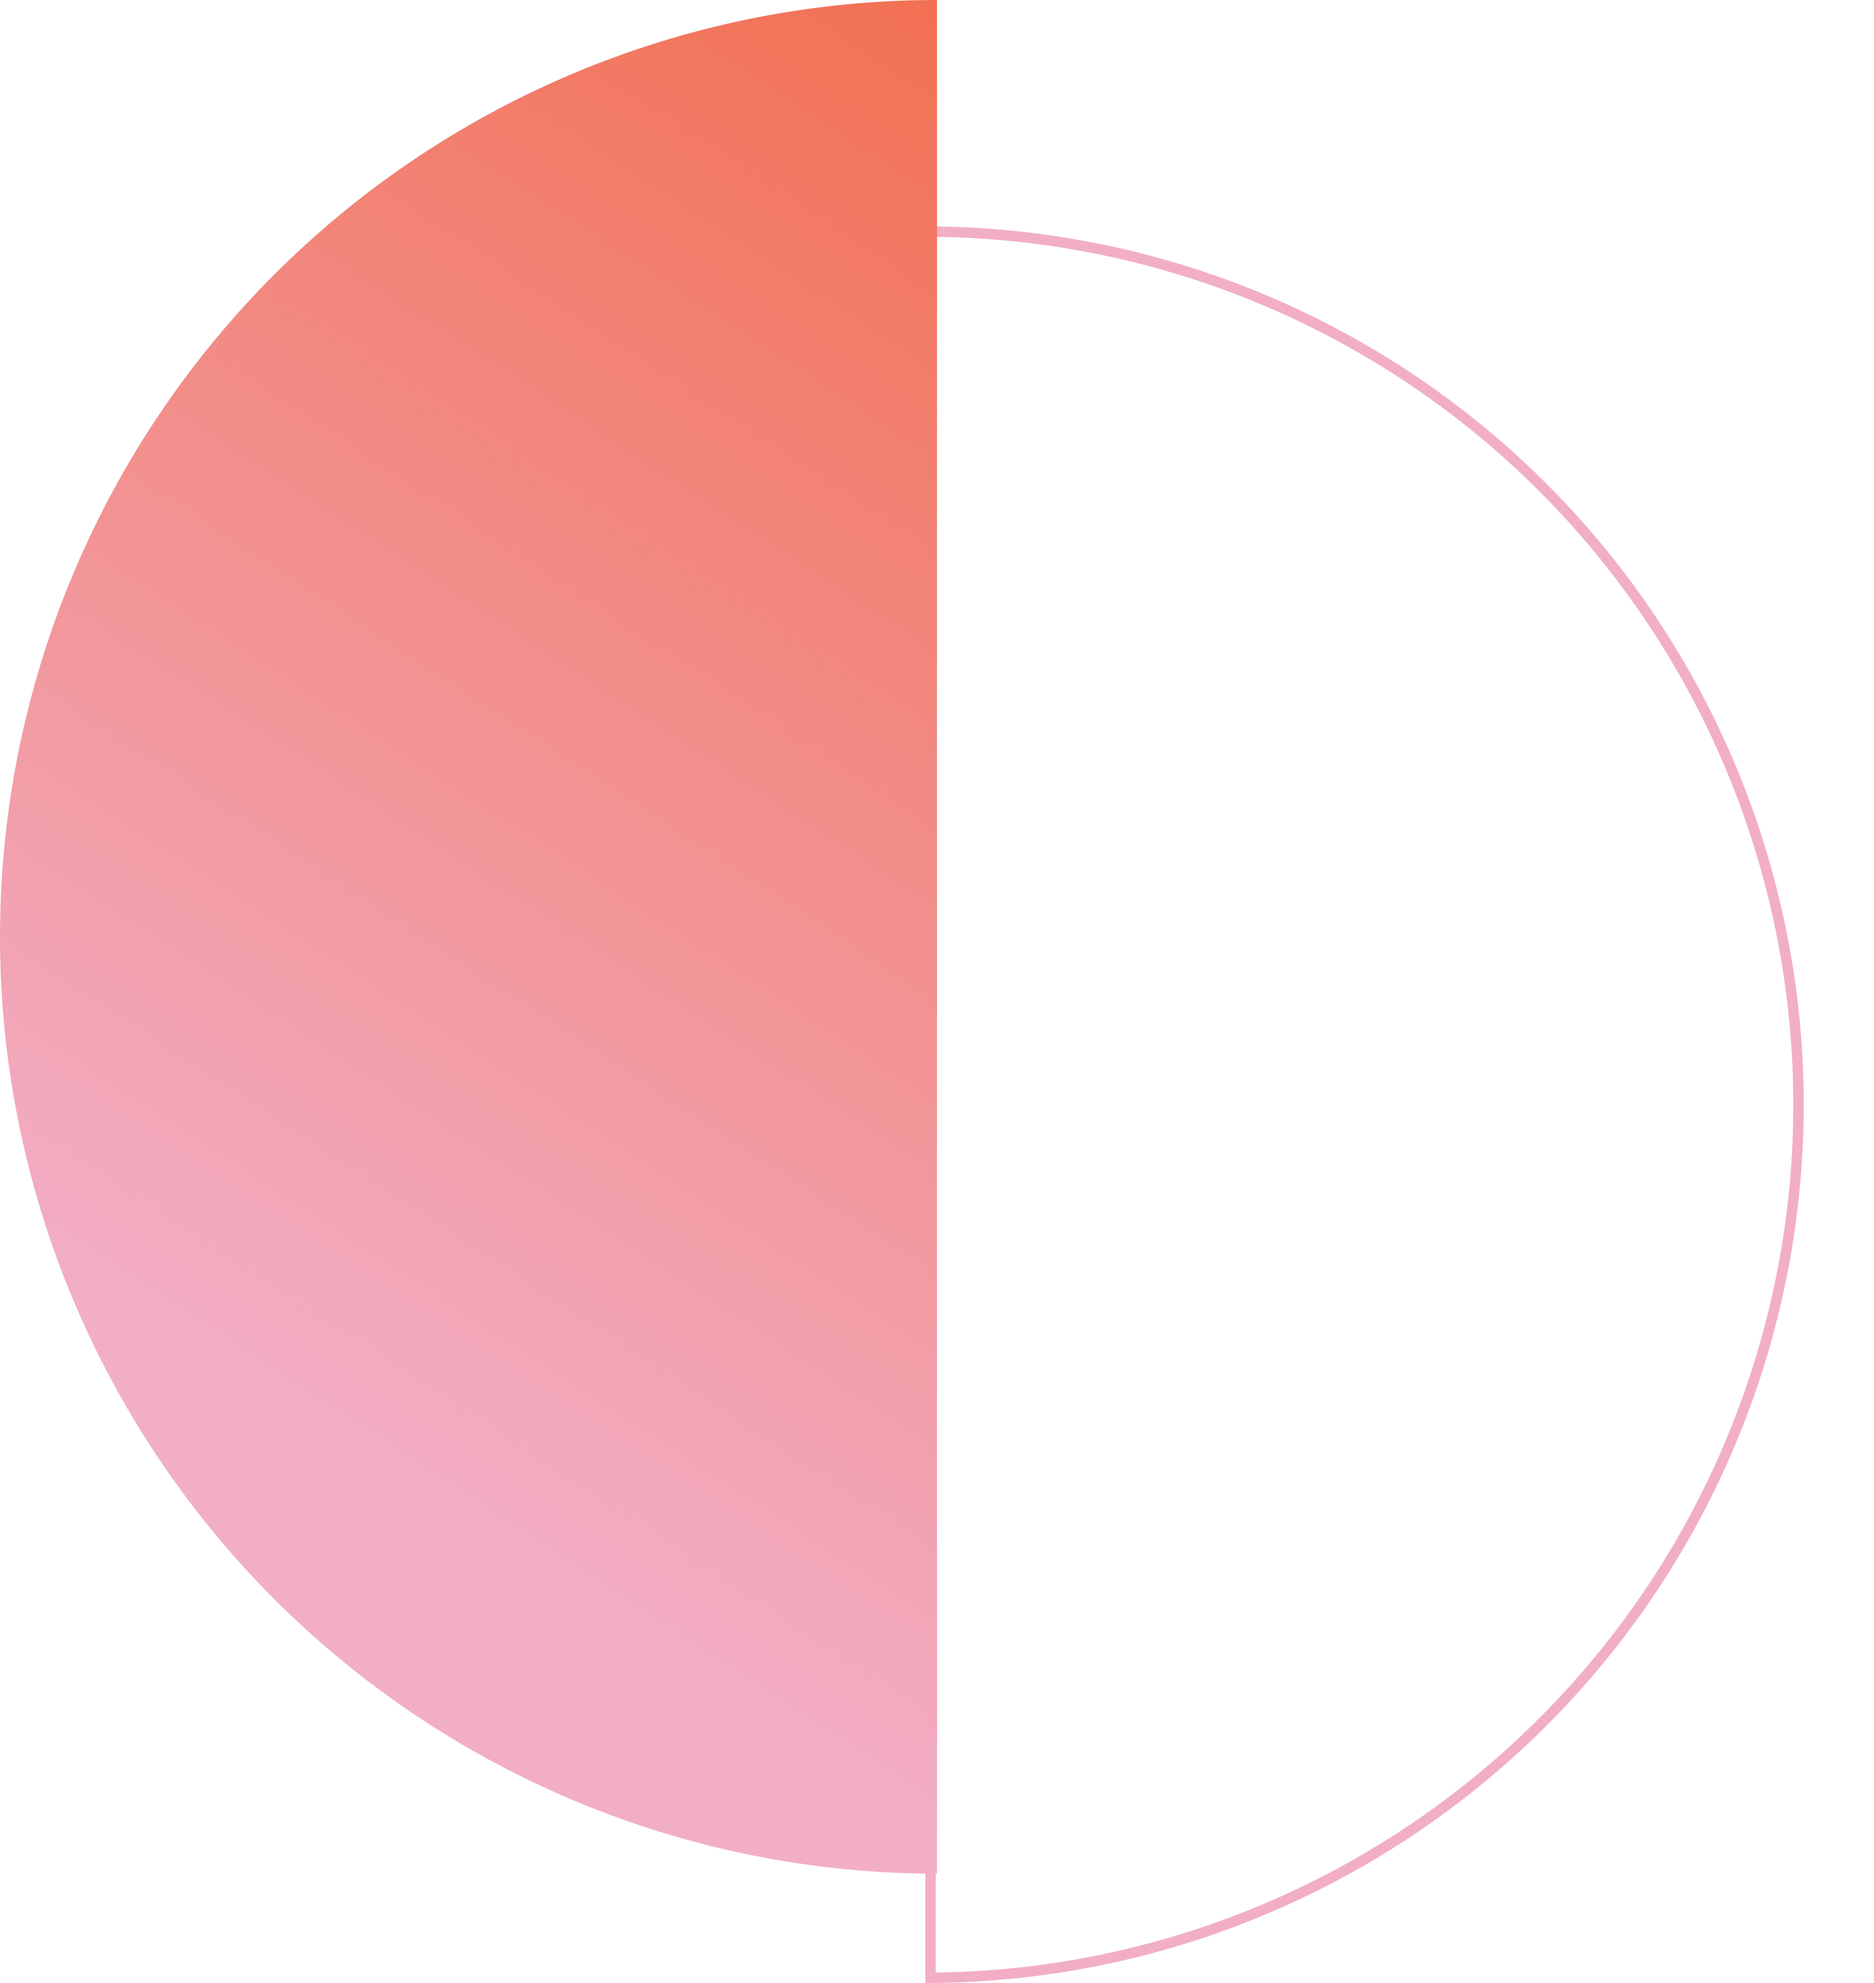
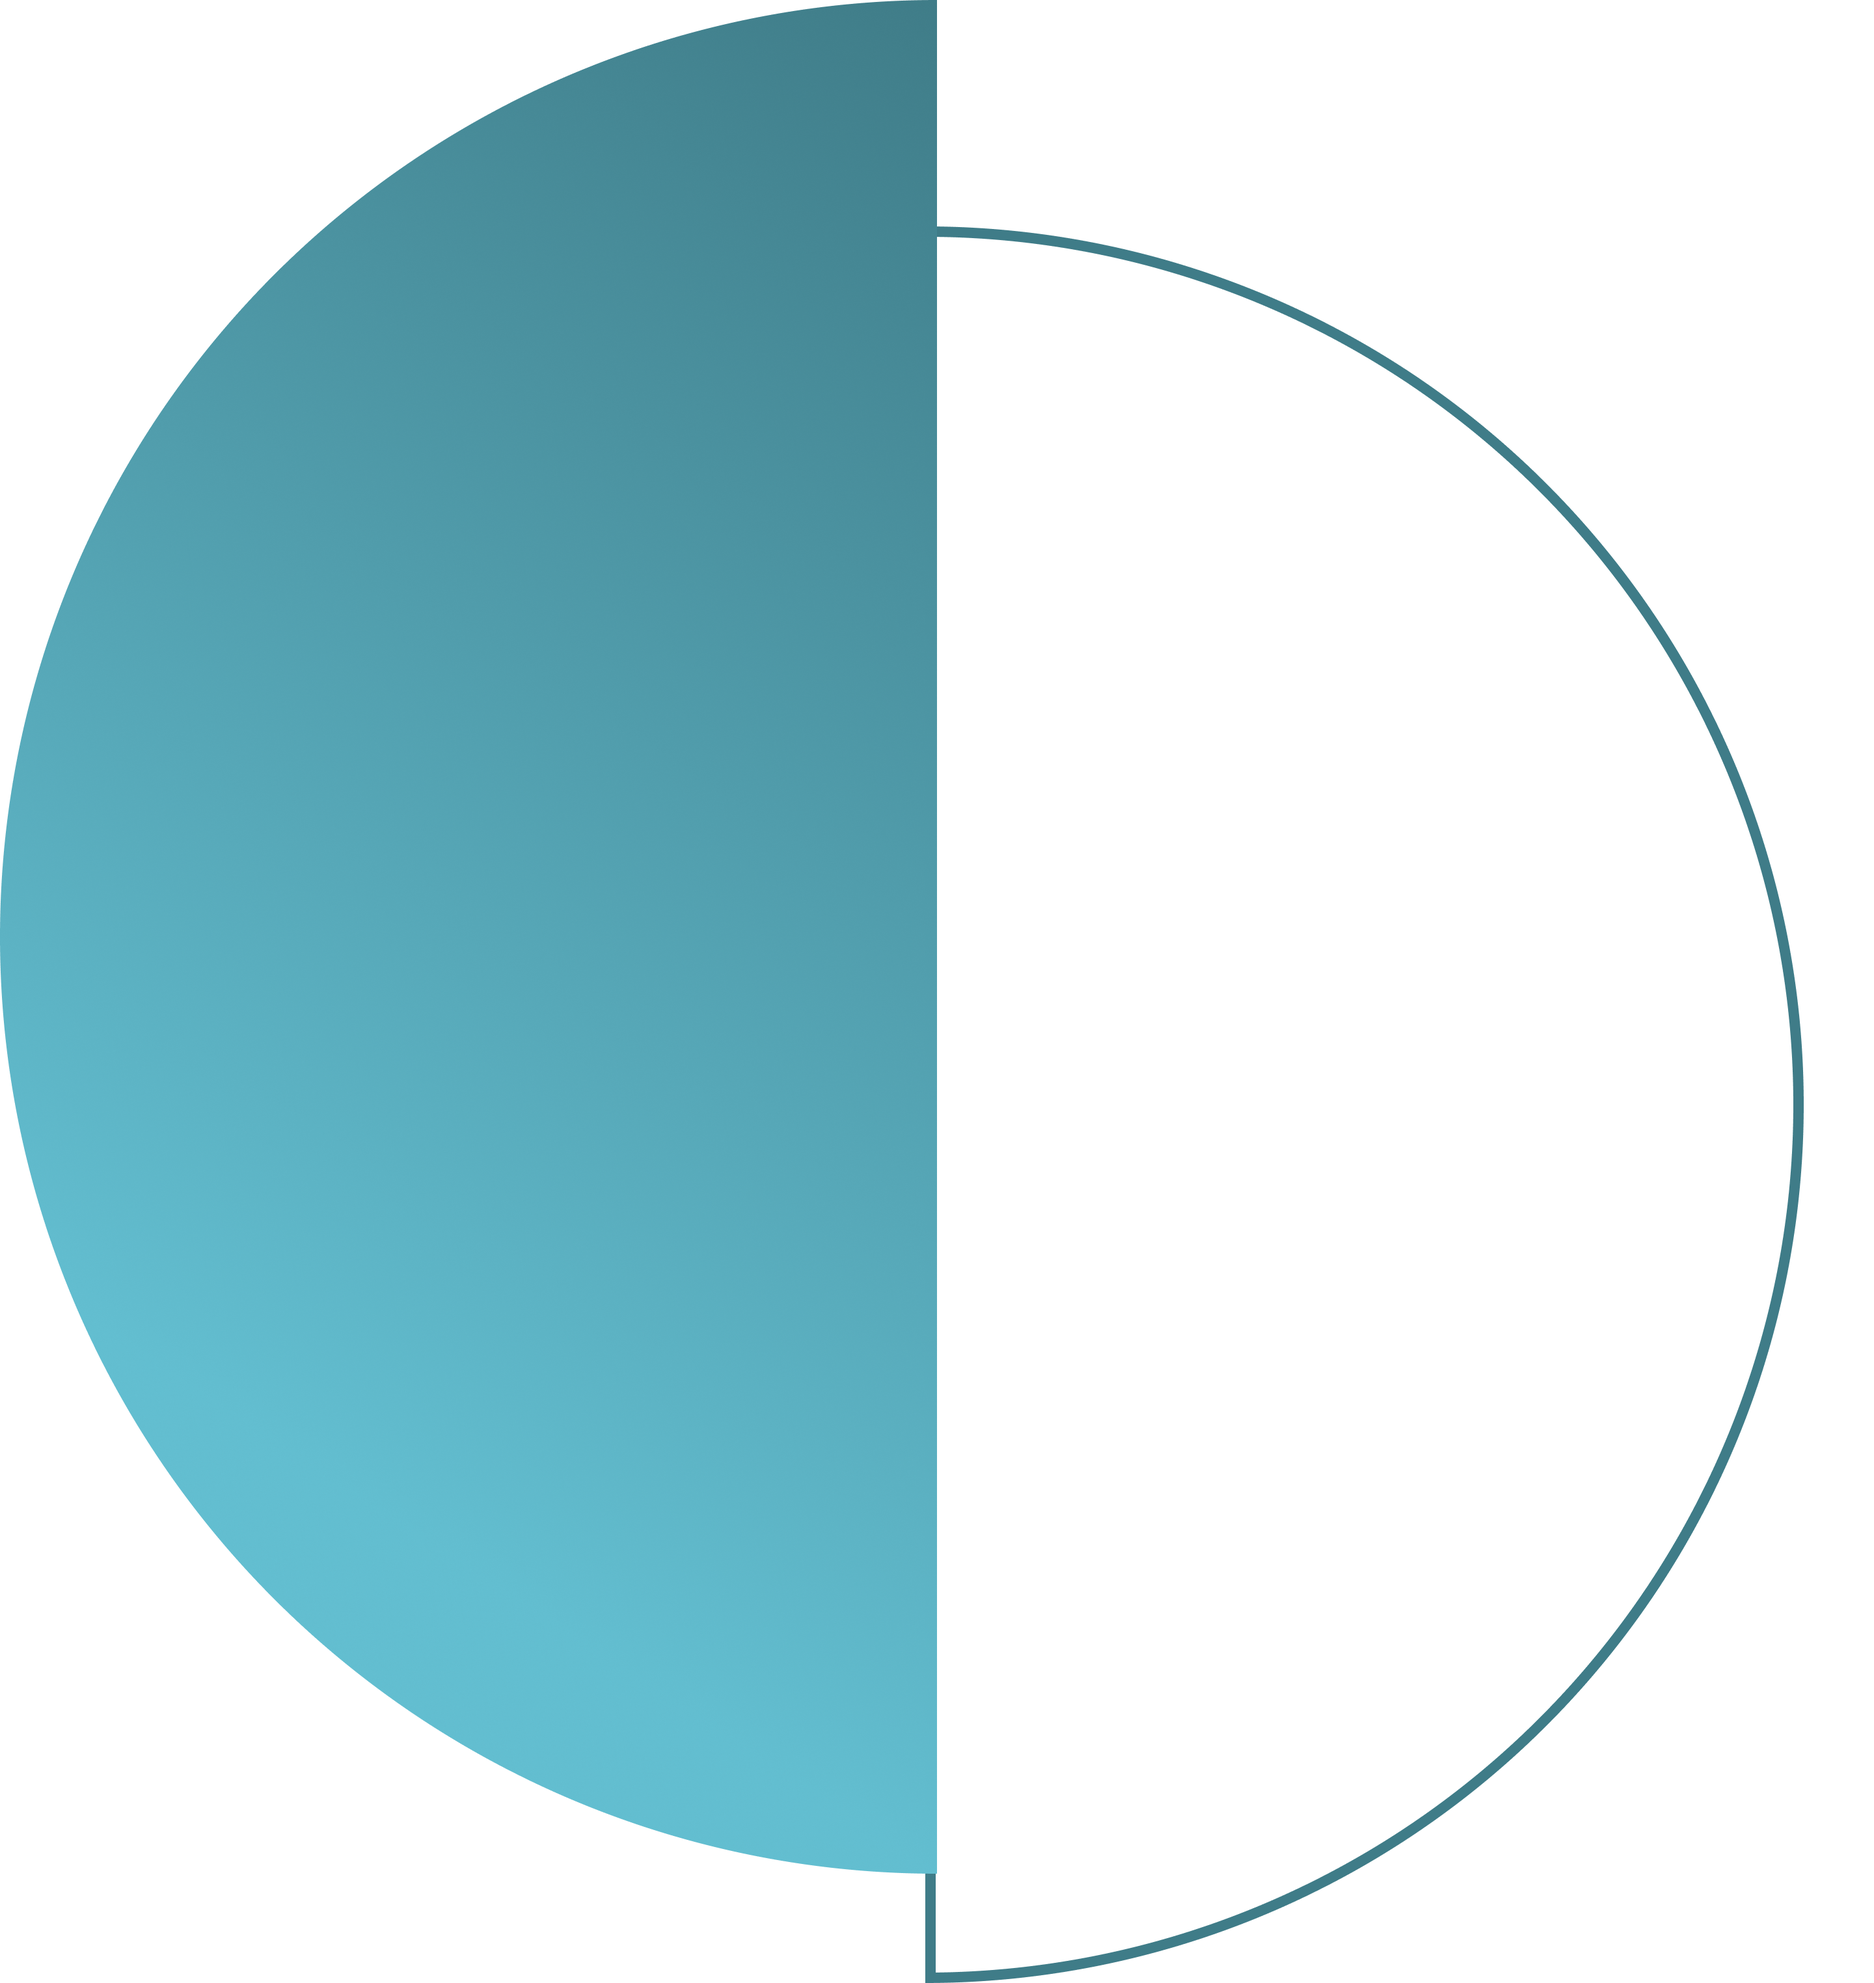
fix text + color

diff --git a/src/components/Card/CardPortofolio.tsx b/src/components/Card/CardPortofolio.tsx
@@ -1,4 +1,5 @@
 import Image from "next/image";
+import Link from "next/link";
 import React, { FC } from "react";
 
 interface Props {
@@ -18,18 +19,18 @@ const CardPortofolio: FC<Props> = ({ item }) => {
               <Image src={item?.logo} alt="" fill />
             </div>
           ) : (
-            <div className="font-bold text-headline-large md:text-display-medium text-white">{item?.name}</div>
+            <div className="font-bold text-headline-large md:text-display-medium text-primary">{item?.name}</div>
           )}
           <div className="text-body-medium text-secondary mt-2">
             Created at {item?.created_at}
           </div>
-          <div className="mt-4 mb-2 text-title-medium text-white">{item?.description}</div>
+          <div className="mt-4 mb-2 text-title-medium text-primary">{item?.description}</div>
           <div className="flex flex-wrap gap-2">
             {item?.stacks?.map((val) => {
               return (
                 <div
                   key={val}
-                  className="px-3 py-2 border text-white border-secondary rounded-lg text-title-small capitalize"
+                  className="px-3 py-2 border text-primary border-secondary rounded-lg text-title-small capitalize"
                 >
                   {val}
                 </div>
@@ -38,11 +39,11 @@ const CardPortofolio: FC<Props> = ({ item }) => {
           </div>
         </div>
         {item?.link && (
-          <div className="flex">
-            <button onClick={() => window.open(item?.link)}>
+          <Link target="_blank" href={item?.link} className="flex">
+            <button>
               Visit Project
             </button>
-          </div>
+          </Link>
         )}
       </div>
     </div>

diff --git a/src/components/Navbar/index.tsx b/src/components/Navbar/index.tsx
@@ -193,7 +193,7 @@ const Navbar: FC<Props> = ({ view }) => {
 
   return (
     <header>
-      <div className="hidden lg:flex fixed top-0 z-50 items-center w-full justify-between px-[4rem] xl:px-[7.42rem] bg-black-text">
+      <div className="hidden lg:flex fixed top-0 z-50 items-center w-full justify-between px-[4rem] xl:px-[7.42rem] bg-tertiary">
         <div>
           <div className="relative w-[153px] h-[40px]">
             <Image fill alt="logo" src={"/logo.svg"} />
@@ -223,7 +223,7 @@ const Navbar: FC<Props> = ({ view }) => {
         </nav>
       </div>
       <div className="block lg:hidden fixed w-full top-0 z-50">
-        <div className="flex items-center justify-between bg-black-text p-4 shadow-sm">
+        <div className="flex items-center justify-between bg-tertiary p-4 shadow-sm">
           <div className="relative w-[153px] h-[40px]">
             <Image fill alt="logo2" src={"/logo.svg"} />
           </div>

diff --git a/src/app/(fragments)/HomeJourney.tsx b/src/app/(fragments)/HomeJourney.tsx
@@ -10,9 +10,9 @@ const HomeJourney: ForwardRefRenderFunction<HTMLElement, Props> = (
   ref
 ) => {
   return (
-    <section ref={ref} className="bg-black-text pt-[3.85rem] min-h-screen">
+    <section ref={ref} className="bg-tertiary pt-[3.85rem] min-h-screen">
       <div className="grid grid-cols-12">
-        <div className="col-span-12 xl:col-span-3 bg-primary h-full xl:h-1/3 py-[1.71rem] px-[2.28rem] text-headline-medium md:text-display-medium text-white">
+        <div className="col-span-12 xl:col-span-3 bg-primary h-full xl:h-1/3 py-[1.71rem] px-[2.28rem] text-headline-medium md:text-display-medium text-tertiary">
           <FadeInSection type="fade-in-left">
             <h3 className="font-normal">The</h3>
             <h3 className="font-bold">Journey</h3>

diff --git a/src/app/(fragments)/HomeAbout.tsx b/src/app/(fragments)/HomeAbout.tsx
@@ -39,7 +39,7 @@ const HomeAbout: ForwardRefRenderFunction<HTMLElement, Props> = (
   return (
     <section
       ref={ref}
-      className="flex flex-col-reverse md:grid md:grid-cols-12 h-[100vh] bg-black-text px-4 md:px-[2rem] lg:px-[7rem] overflow-hidden"
+      className="flex flex-col-reverse md:grid md:grid-cols-12 h-[100vh] bg-tertiary px-4 md:px-[2rem] lg:px-[7rem] overflow-hidden"
     >
       <div className="col-span-5 py-4 md:pt-0 h-1/2 md:h-auto flex flex-col justify-start md:justify-center">
         <FadeInSection type="fade-in-left">

diff --git a/src/app/(fragments)/HomePortofolio.tsx b/src/app/(fragments)/HomePortofolio.tsx
@@ -25,7 +25,7 @@ const HomePortofolio: ForwardRefRenderFunction<HTMLElement, Props> = (
   return (
     <section
       ref={ref}
-      className="min-h-screen bg-black-text lg:px-[7rem] pt-[2.85rem] overflow-hidden"
+      className="min-h-screen bg-tertiary lg:px-[7rem] pt-[2.85rem] overflow-hidden"
     >
       <div className="flex flex-col xl:flex-row xl:items-end gap-4">
         <div className="text-start text-headline-medium md:text-display-medium text-primary font-normal md:font-normal px-4 md:px-[2rem]">

diff --git a/src/components/Card/CardJourney.tsx b/src/components/Card/CardJourney.tsx
@@ -33,7 +33,7 @@ const CardJourney: FC<Props> = ({ item }) => {
       <div className="text-body-large text-primary mt-2 font-normal mb-2">
         {item?.role} at {item?.company}
       </div>
-      <ul className="text-white list-disc list-inside flex flex-col gap-1">
+      <ul className="text-primary list-disc list-inside flex flex-col gap-1">
         {item?.description?.map((val) => {
           return (
             <li key={val} className="items-center list-item">

diff --git a/src/app/(fragments)/HomeBlog.tsx b/src/app/(fragments)/HomeBlog.tsx
@@ -6,7 +6,7 @@ const HomeBlog: ForwardRefRenderFunction<HTMLElement, Props> = (props, ref) => {
   return (
     <section
       ref={ref}
-      className="h-screen bg-black-text text-display-large text-white overflow-hidden flex justify-center items-center"
+      className="h-screen bg-tertiary text-display-large text-white overflow-hidden flex justify-center items-center"
     >
       COMING SOON
     </section>

diff --git a/tailwind.config.ts b/tailwind.config.ts
@@ -18,8 +18,9 @@ const config: Config = {
       },
       colors: {
         "black-text": "#403631",
-        primary: "#F25244",
-        secondary: "#F2AEC7",
+        primary: "#2F404F",
+        secondary: "#3F7C88",
+        tertiary: '#C7DAD3',
 
         success: "#179C70",
         info: "#2CB5DB",

diff --git a/src/app/page.tsx b/src/app/page.tsx
@@ -23,7 +23,7 @@ export default function Home() {
   const [portofolioRef, portofolioInView, portofolioEntry] = portofolioView;
 
   return (
-    <div className="bg-black-text text-black-text">
+    <div className="text-black-text">
       <Navbar
         view={{
           homeView: {

diff --git a/src/app/(fragments)/HomeFyi.tsx b/src/app/(fragments)/HomeFyi.tsx
@@ -7,8 +7,8 @@ const HomeFyi: ForwardRefRenderFunction<HTMLElement, Props> = (
   ref
 ) => {
   return (
-    <section ref={ref} className="h-screen bg-black-text">
-      asldksald
+    <section ref={ref} className=" bg-tertiary">
+      
     </section>
   );
 };

diff --git a/src/app/layout.tsx b/src/app/layout.tsx
@@ -49,7 +49,7 @@ export default function RootLayout({
 }>) {
   return (
     <html lang="en">
-      <body className={clsx(lato.className, "bg-black-text")}>{children}</body>
+      <body className={clsx(lato.className)}>{children}</body>
     </html>
   );
 }

diff --git a/src/app/globals.css b/src/app/globals.css
@@ -59,7 +59,7 @@
 }
 
 button {
-  background-color: #f25244;
+  background-color: #3F7C88;
   color: white;
   font-size: 1rem;
   padding: 0.571rem 1.142rem;
